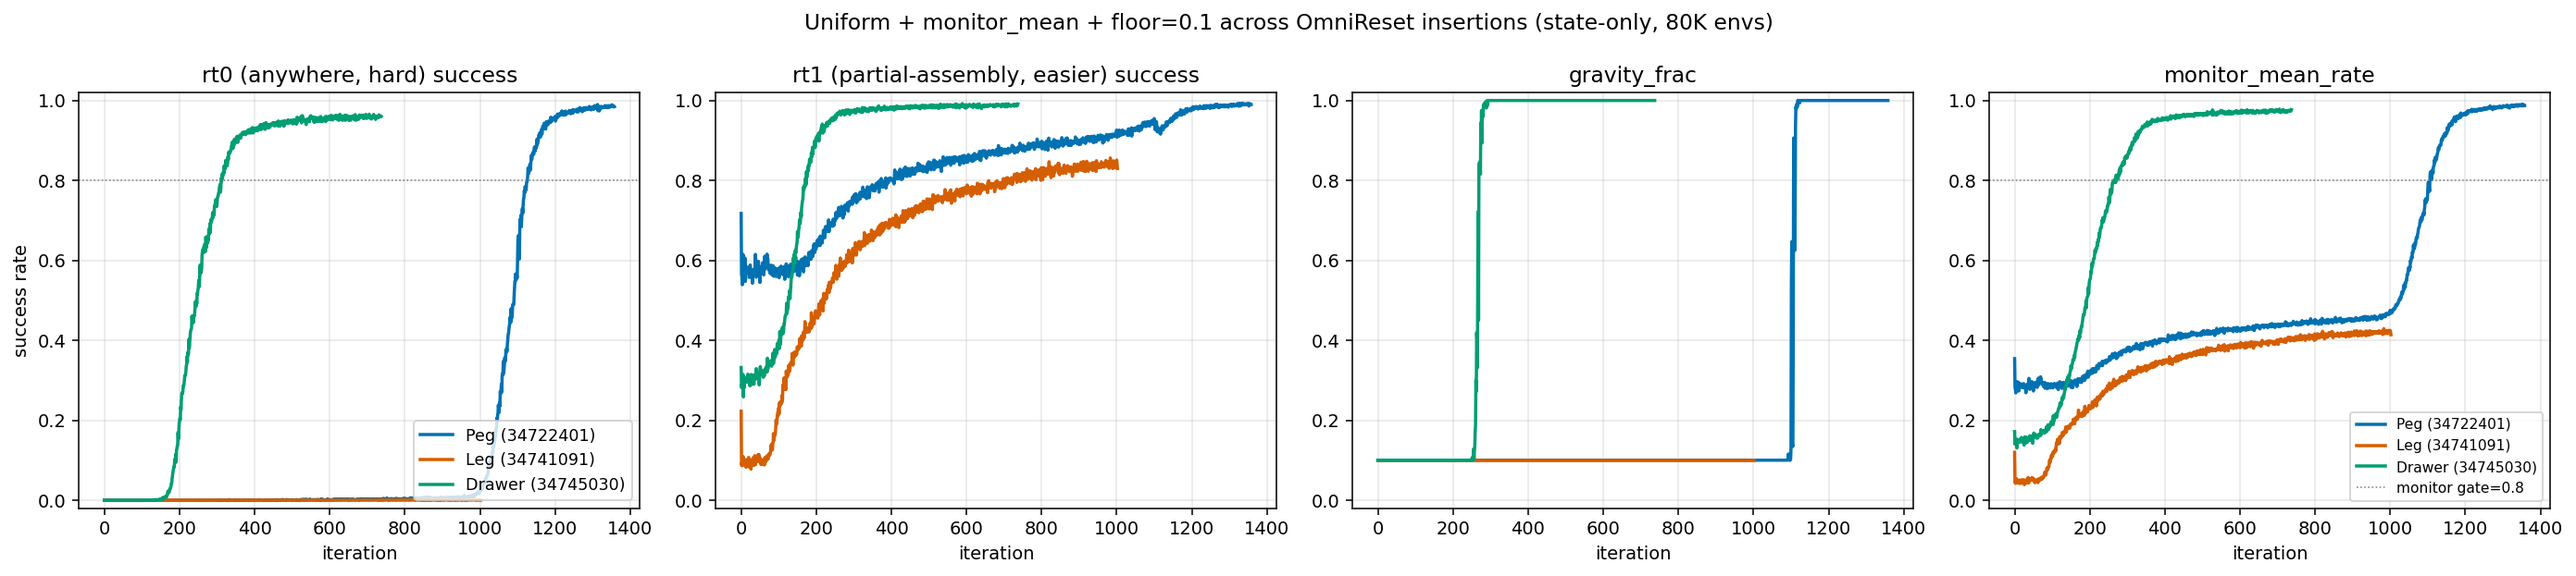
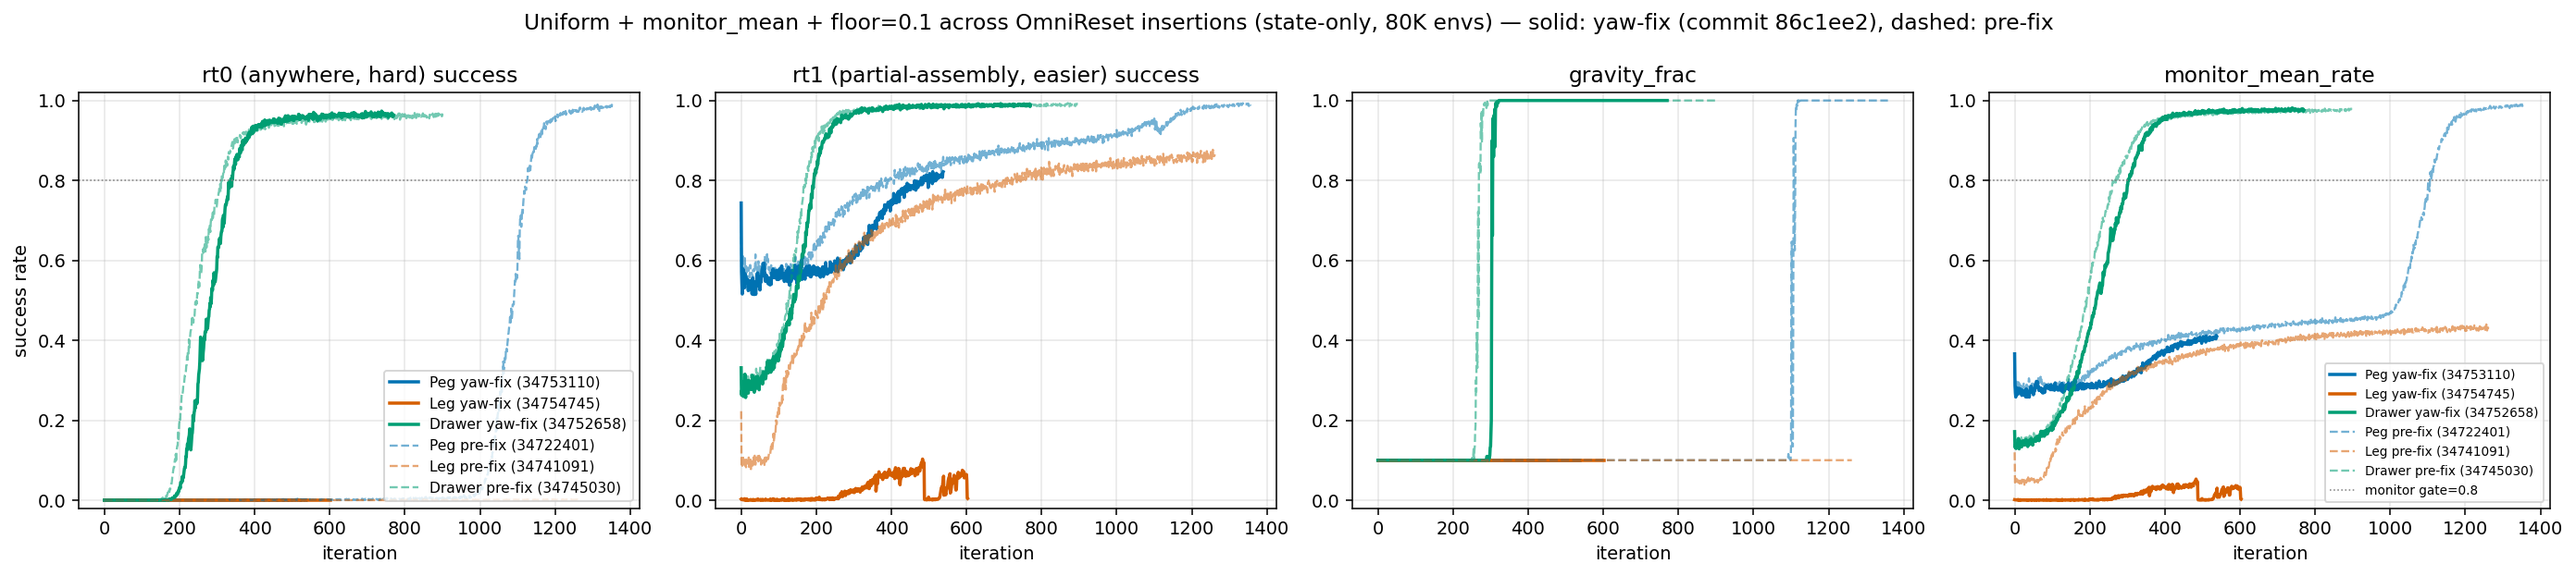
Refresh peg/leg/drawer plot with yaw-fix relaunches
Adds the three yaw-aware relaunches (commit c3ce150) as solid lines and
keeps the pre-fix runs as dashed for comparison.

Snapshot:
- Drawer yaw-fix (34752658, lxh3nxve) iter 770: rt0=0.963, rt1=0.988, grav=1.0 — SOLVED (faster than pre-fix's ~900)
- Peg yaw-fix (34753110, 4icjogy3) iter 538: rt0=0.000, rt1=0.822, grav=0.10 — rt1 just crossed gate; rt0 still pre-transition
- Leg yaw-fix (34754745, rmp8ftoo) iter 603: rt0=0.000, rt1=0.004, grav=0.10 — yaw bar much harder; even rt1 nowhere near pre-fix's 0.86

diff --git a/scripts/plot_peg_leg_drawer.py b/scripts/plot_peg_leg_drawer.py
@@ -1,8 +1,10 @@
 """Winning config (uniform + monitor_mean + floor=0.1) across peg / leg / drawer.
 
-Peg solved by iter ~1349 (a88ojkt0). Drawer solved by iter ~700 (ottu8izh). Leg is stuck:
-rt1 plateaus below 0.85 and rt0 never cracks, so monitor_mean never crosses 0.8 and
-gravity stays pinned at the 0.1 floor.
+Yaw-fix relaunches (commit 86c1ee2): every success/orientation site now sums
+|wrap_to_pi(e_x)|+|wrap_to_pi(e_y)|+|wrap_to_pi(e_z)| instead of dropping yaw. Peg loses
+its cylindrical free pass; drawer/leg gain correct orientation supervision.
+
+Pre-fix runs are kept for reference as dashed lines.
 """
 
 from pathlib import Path
@@ -14,11 +16,16 @@ api = wandb.Api()
 
 PROJ = "OmniReset-Ur5eRobotiq2f85-RelCartesianOSC-ZeroG-State-v0"
 
-# (label, run_id, color)
+# (label, run_id, color, linestyle)
 RUNS = [
-    ("Peg (34722401)",    "a88ojkt0", "#0072B2"),
-    ("Leg (34741091)",    "dtud7prh", "#D55E00"),
-    ("Drawer (34745030)", "ottu8izh", "#009E73"),
+    # Yaw-fix relaunches (commit 86c1ee2) — currently running
+    ("Peg yaw-fix (34753110)",    "4icjogy3", "#0072B2", "-"),
+    ("Leg yaw-fix (34754745)",    "rmp8ftoo", "#D55E00", "-"),
+    ("Drawer yaw-fix (34752658)", "lxh3nxve", "#009E73", "-"),
+    # Pre-fix runs (yaw-symmetric success), kept for context
+    ("Peg pre-fix (34722401)",    "a88ojkt0", "#0072B2", "--"),
+    ("Leg pre-fix (34741091)",    "dtud7prh", "#D55E00", "--"),
+    ("Drawer pre-fix (34745030)", "ottu8izh", "#009E73", "--"),
 ]
 
 KEYS = [
@@ -37,7 +44,7 @@ def fetch(run_id: str):
 
 
 parsed = {}
-for label, rid, _ in RUNS:
+for label, rid, _c, _ls in RUNS:
     df, state = fetch(rid)
     parsed[label] = df
     last = df.iloc[-1]
@@ -50,12 +57,14 @@ for label, rid, _ in RUNS:
     )
 
 fig, axes = plt.subplots(1, 4, figsize=(20, 4.5), sharex=True)
-for label, rid, color in RUNS:
+for label, rid, color, ls in RUNS:
     df = parsed[label]
-    axes[0].plot(df["_step"], df["Metrics/task_0_success_rate"], label=label, color=color, lw=1.8)
-    axes[1].plot(df["_step"], df["Metrics/task_1_success_rate"], label=label, color=color, lw=1.8)
-    axes[2].plot(df["_step"], df["Curriculum/gravity_curriculum/gravity_frac"], label=label, color=color, lw=1.8)
-    axes[3].plot(df["_step"], df["Curriculum/gravity_curriculum/monitor_mean_rate"], label=label, color=color, lw=1.8)
+    lw = 1.8 if ls == "-" else 1.2
+    alpha = 1.0 if ls == "-" else 0.55
+    axes[0].plot(df["_step"], df["Metrics/task_0_success_rate"], label=label, color=color, lw=lw, ls=ls, alpha=alpha)
+    axes[1].plot(df["_step"], df["Metrics/task_1_success_rate"], label=label, color=color, lw=lw, ls=ls, alpha=alpha)
+    axes[2].plot(df["_step"], df["Curriculum/gravity_curriculum/gravity_frac"], label=label, color=color, lw=lw, ls=ls, alpha=alpha)
+    axes[3].plot(df["_step"], df["Curriculum/gravity_curriculum/monitor_mean_rate"], label=label, color=color, lw=lw, ls=ls, alpha=alpha)
 
 axes[0].axhline(0.8, color="gray", ls=":", lw=0.8)
 axes[3].axhline(0.8, color="gray", ls=":", lw=0.8, label="monitor gate=0.8")
@@ -71,11 +80,12 @@ for ax in axes:
     ax.set_xlabel("iteration")
     ax.grid(alpha=0.3)
 axes[0].set_ylabel("success rate")
-axes[0].legend(fontsize=9, loc="lower right")
-axes[3].legend(fontsize=8, loc="lower right")
+axes[0].legend(fontsize=8, loc="lower right")
+axes[3].legend(fontsize=7, loc="lower right")
 
 fig.suptitle(
-    "Uniform + monitor_mean + floor=0.1 across OmniReset insertions (state-only, 80K envs)",
+    "Uniform + monitor_mean + floor=0.1 across OmniReset insertions (state-only, 80K envs) "
+    "— solid: yaw-fix (commit 86c1ee2), dashed: pre-fix",
     fontsize=12,
 )
 fig.tight_layout()
